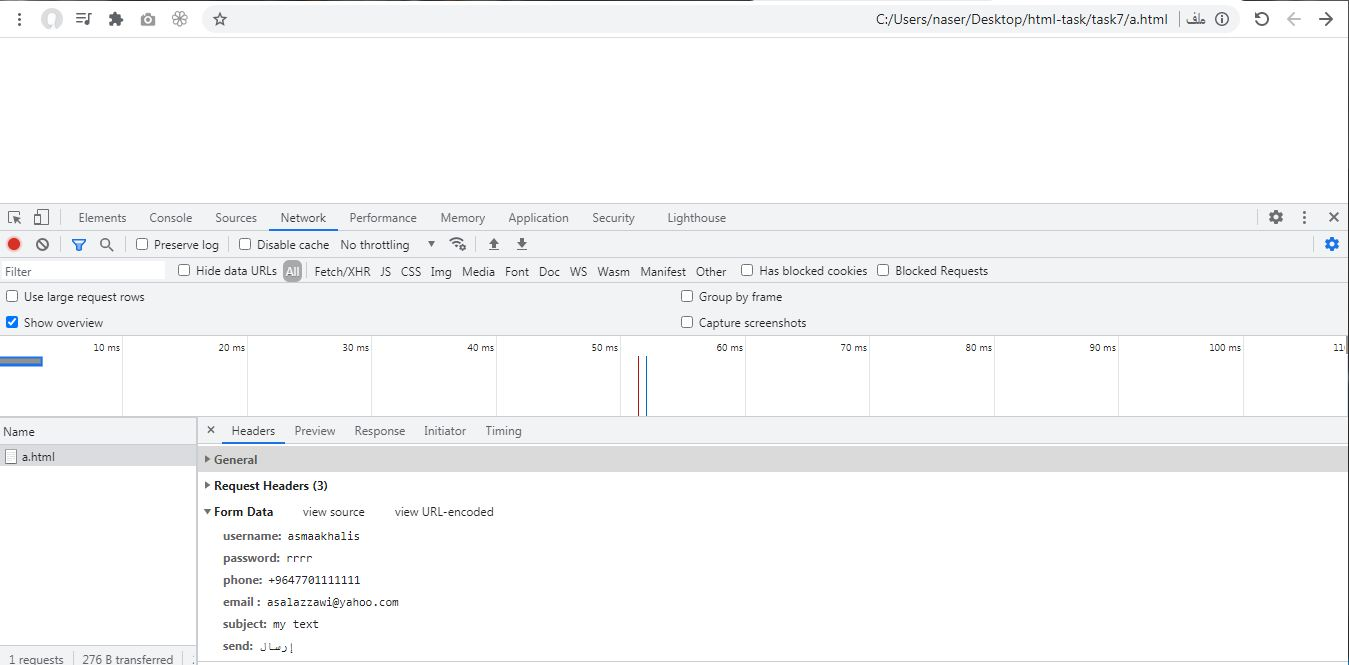
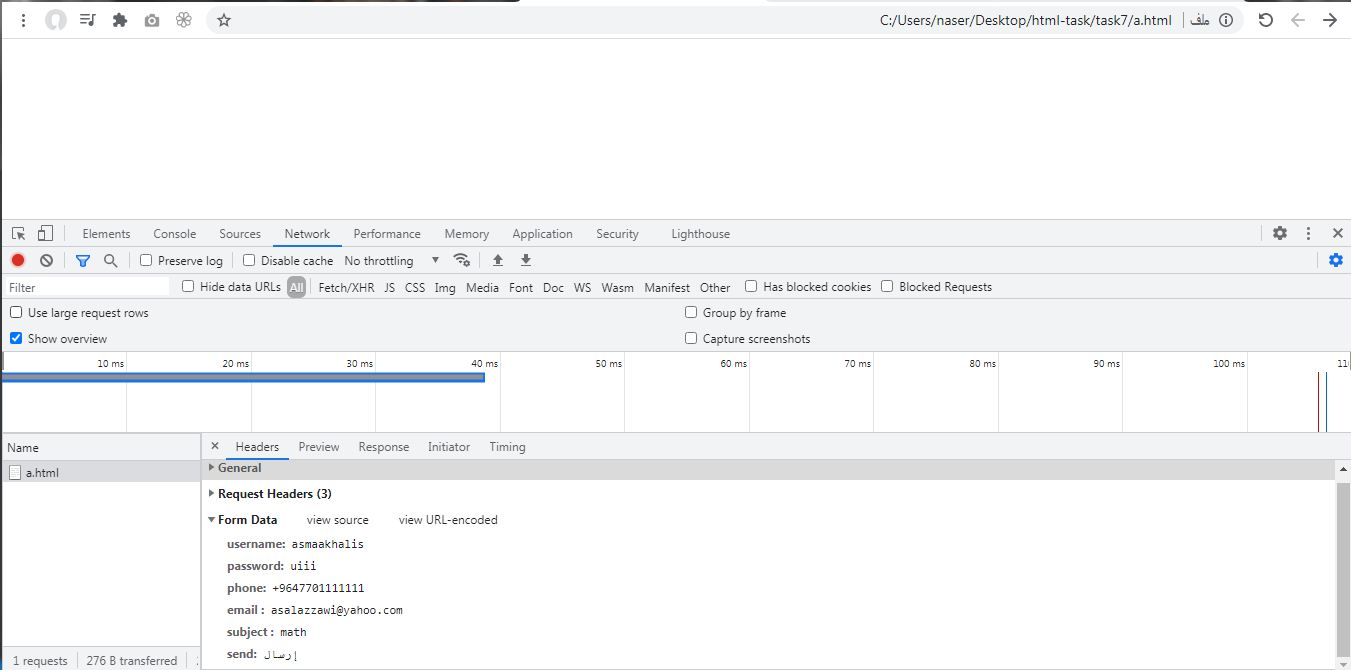
new task

diff --git a/task7/index.html b/task7/index.html
@@ -40,14 +40,20 @@
         <div class="input"> <label for=" "> Subject</label>
             <br>
 
-            <input type="text" required placeholder="Enter subject" name="subject">
+            <input type="text" required placeholder="Enter subject" id="search" list="mysearch" name="subject ">
+            <datalist id="mysearch">
+                <option value="arabic"></option>
+                <option value="math"></option>
+                <option value="history"></option>
+
+                </datalist>
         </div>
 
         <hr>
         <div class="input"> <label for=" "> Number</label>
             <br>
 
-            <input type="number" required placeholder="Enter your number" name="number" value="76543" disabled>
+            <input type="number" required placeholder="Enter your number " name="number" value="76543" disabled>
         </div>
 
         <hr>
